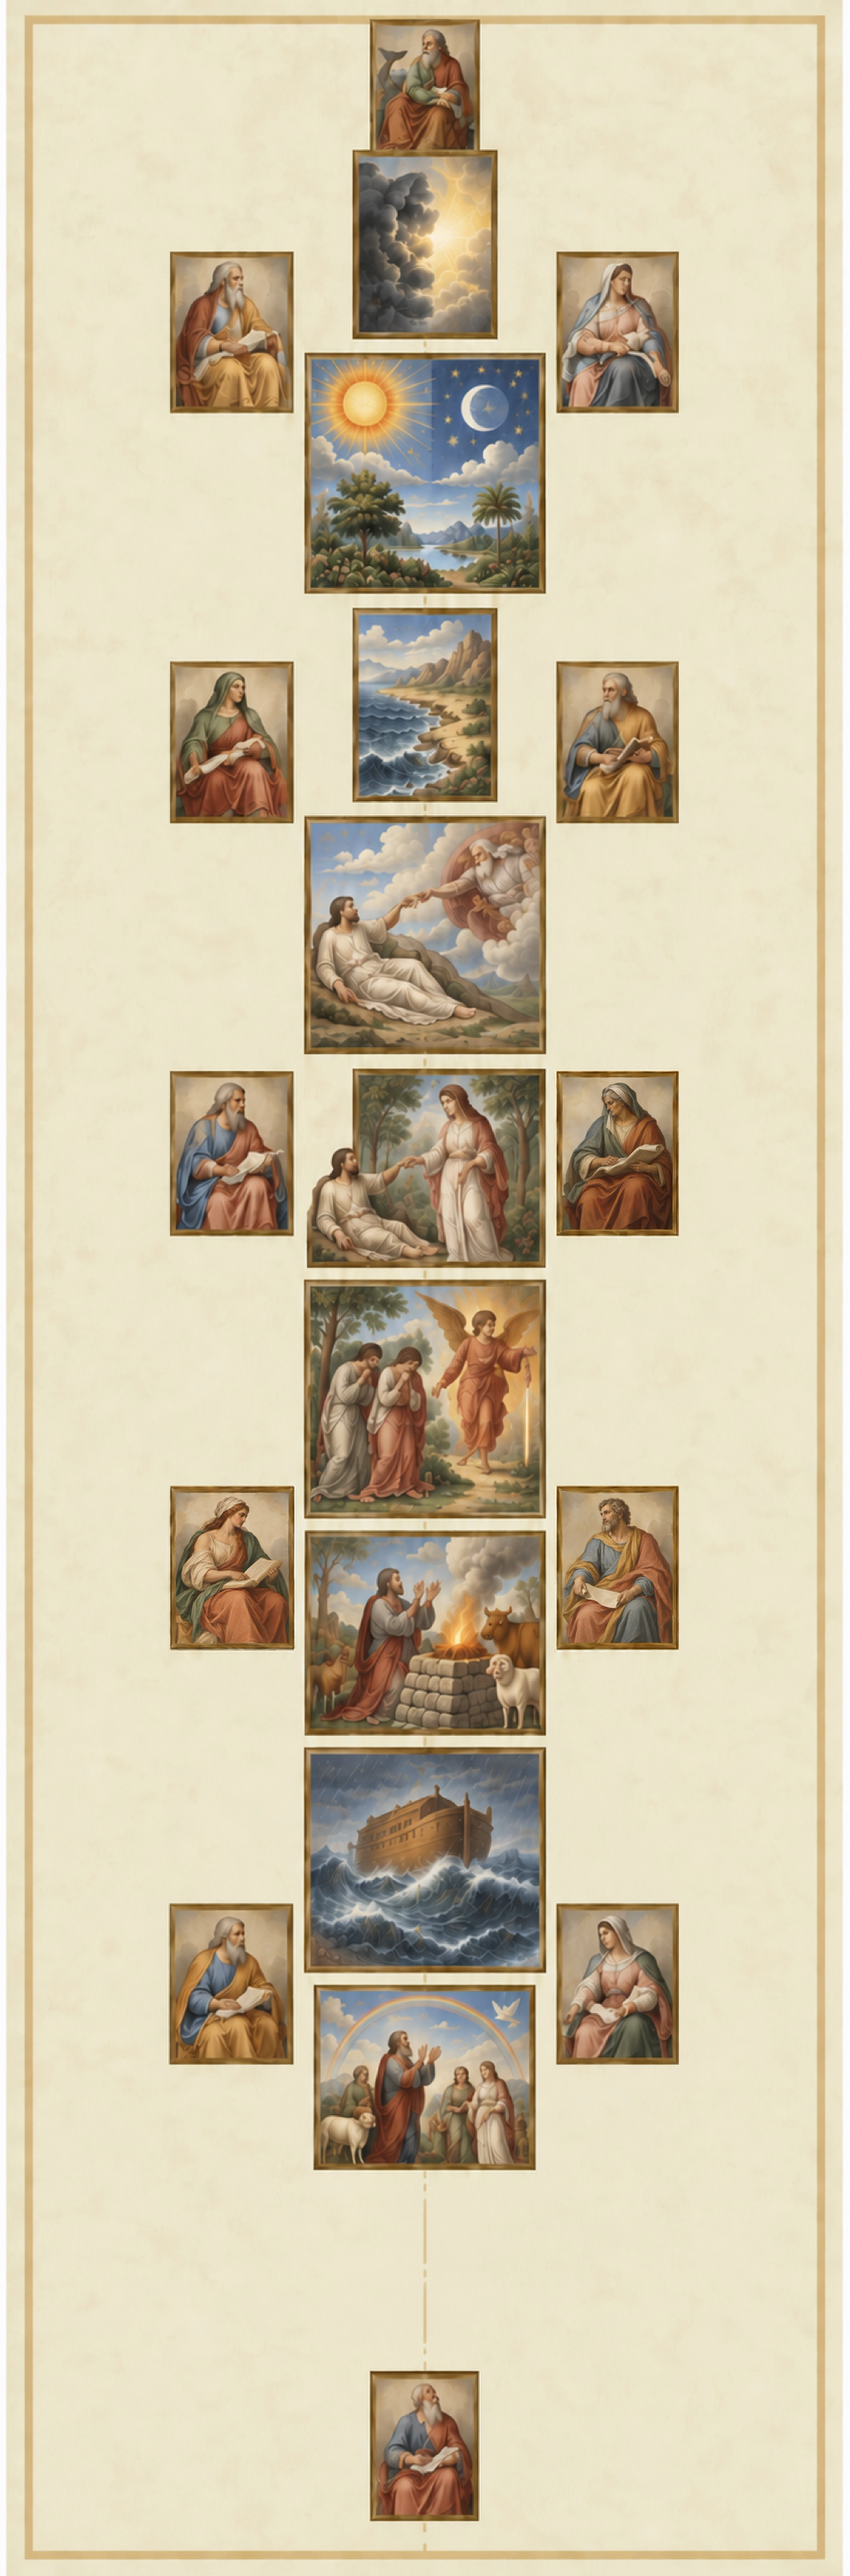
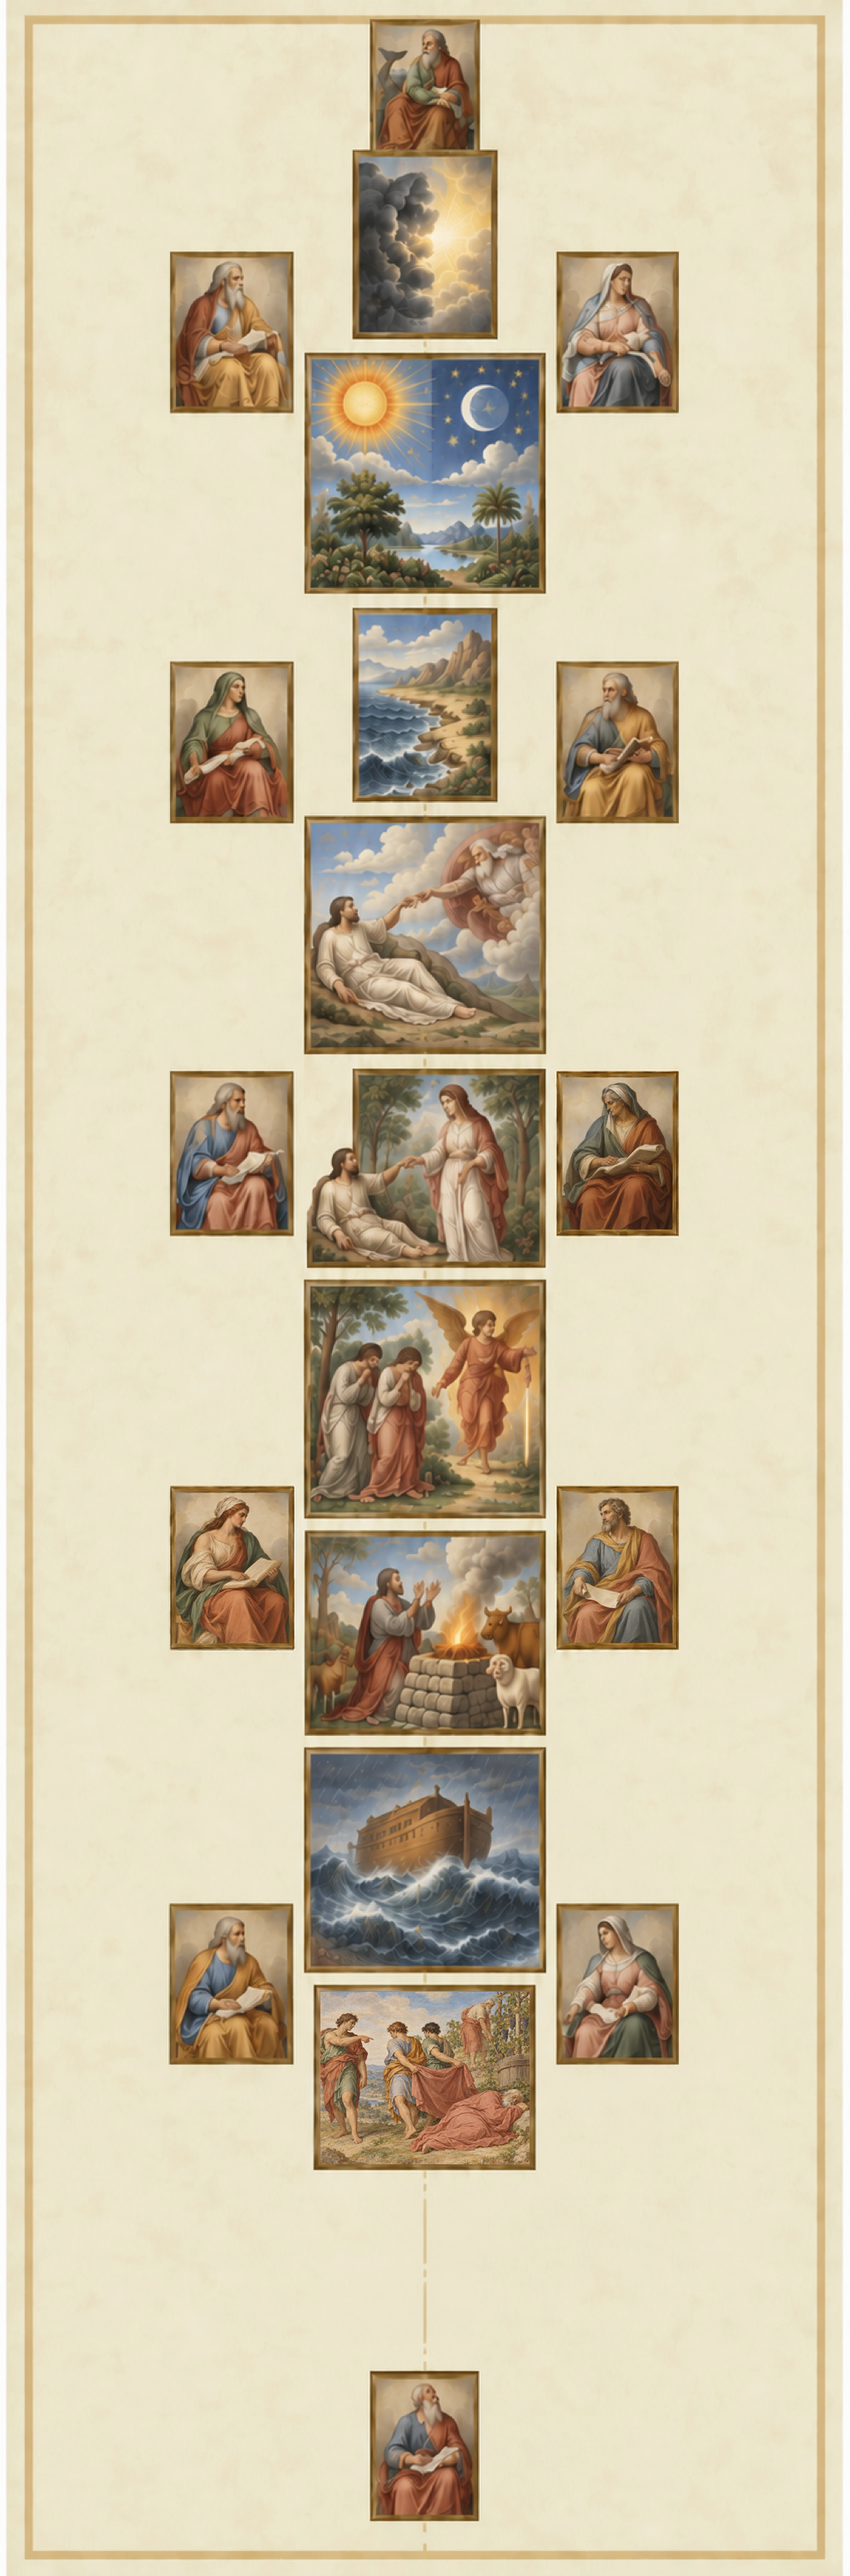
Show the Drunkenness of Noah in Sistine ceiling panel 9
Panel 9 showed Noah under a rainbow, so tapping it opened the right caption
over the wrong scene. The new panel is fitted inside the existing painted
frame; the hotspots are unchanged.

Changed region(s): [[0.375, 0.7734, 0.625, 0.8663]]

diff --git a/design-concepts/sistine-panel-09/generation-prompt.md b/design-concepts/sistine-panel-09/generation-prompt.md
@@ -1,0 +1,31 @@
+# Sistine ceiling panel 9 — Drunkenness of Noah
+
+Generated on 16 October 2026 with the built-in image_gen tool.
+
+Source panel: `content/hub/holy_see/sistine_panel_09.png`.
+Master diagram: `content/hub/holy_see/sistine_ceiling.png`.
+Bundled image: `shared/src/commonMain/composeResources/drawable/sistine_ceiling.webp`.
+
+## Final prompt
+
+A small fresco panel in the style of Michelangelo's Sistine Chapel ceiling, matching soft faded fresco colours (muted ochres, rose, sage green, pale blue) and the same painted look as the neighbouring Genesis panels. The Drunkenness of Noah, shown modestly: on the right, the elderly white-bearded Noah lies asleep on the ground beside a wooden wine vat, his body fully covered by a loose rose-coloured cloak. In the centre, two of his sons walk backwards towards him with their faces turned away, holding a cloak between them to cover their father. On the left, the third son, Ham, points towards Noah. In the background, Noah tends a grapevine with a spade. Fully clothed figures, no nudity. Painted frame-free scene filling the whole canvas. No text, no letters, no numerals, no watermark, no signature, no border.
+
+Asset type: replacement Genesis scene for Cathopedia's existing ceiling diagram. Canvas approximately 1.15:1 width to height, ideally 1150 by 1000 pixels. Use a soft classical academic sacred-painting interpretation with gently modeled, clearly readable faces, warm cream ground and aged fresco texture, calm atmospheric sky, muted terracotta and sage robes. Keep the main storytelling figures large and legible when this panel is reduced to 268 by 233 pixels. The two central sons must visibly face left, away from their father at the right, while stepping backward toward him and holding the covering cloth. Show the sleeping elder fully clothed/covered from neck to feet, not exposed. No rainbow, no ark, no animals, no decorative architecture or frame. Every person has natural, coherent anatomy.
+
+## Assembly
+
+Following the explicit paste instructions in `docs/image-prompts/pending-image-prompts.md`,
+the existing hotspot rectangle is (378, 2389), size 268 × 233, on the 1024 × 3103 master.
+That rectangle includes the painted border. To preserve it, the generated scene is fitted into
+the inner picture window at (386, 2399), size 252 × 208. Only that inner rectangle changes.
+The master is re-exported
+as RGB WebP at quality 90; hotspot coordinates and targets are unchanged.
+
+`asset-checks.json` records the exact changed bounds, dimensions and asset hashes.
+
+## Verification
+
+Android debug build and iOS simulator compilation passed. The APK contains the updated WebP;
+all rebuilt resource copies match it. Taps on panels 4, 7, 8 and 9 were checked on the Android
+emulator and opened the correct captions. `panel-09-native.png` shows the replacement scene
+in the installed app.

diff --git a/docs/image-prompts/pending-image-prompts.md b/docs/image-prompts/pending-image-prompts.md
@@ -4,15 +4,19 @@
 `shared/src/commonMain/composeResources/drawable/` (checked 16 October 2026; the cardinal portraits and
 candle holders that used to be listed here are done).
 
-## Optional: Sistine ceiling, panel 9
+## Completed: Sistine ceiling, panel 9 (16 October 2026)
 
-Panel 9 of the ceiling diagram should be the **Drunkenness of Noah**, but the generated art shows Noah under a
-rainbow. Tapping it opens the right caption over the wrong scene. The full brief is
+Panel 9 now shows the **Drunkenness of Noah**, replacing the incorrect rainbow scene.
+The generated source is `content/hub/holy_see/sistine_panel_09.png`; the master and bundled WebP
+have been updated without changing the hotspots. Generation notes and exact pixel checks are in
+`design-concepts/sistine-panel-09/`. The full brief is
 `holy-see/sistine-ceiling-image-prompts.md`.
 
-Make one image, **`sistine_panel_09.png`**, about **1.15 : 1** (for example 1150×1000). It is pasted into the
-existing frame of `content/hub/holy_see/sistine_ceiling.png` at x 0.369, y 0.770, w 0.262, h 0.075 of the
-1024×3103 canvas (268×233 px), then re-exported as `sistine_ceiling.webp`. The hotspots stay as they are.
+The source image, **`sistine_panel_09.png`**, is **1344×1170** (about **1.15 : 1**).
+The existing hotspot is x 0.369, y 0.770, w 0.262, h 0.075 of the 1024×3103 canvas
+(268×233 px at 378, 2389). Since this box includes the painted border, the scene was fitted
+inside it at **(386, 2399), size 252×208**, preserving that border. The master was then
+re-exported as `sistine_ceiling.webp` at quality 90. The hotspots are unchanged.
 
 ```
 A small fresco panel in the style of Michelangelo's Sistine Chapel ceiling, matching soft faded fresco colours

diff --git a/docs/image-prompts/holy-see/sistine-ceiling-image-prompts.md b/docs/image-prompts/holy-see/sistine-ceiling-image-prompts.md
@@ -11,12 +11,15 @@ coordinates measured from the painted frames, and the table below is the
 Sibyl as a man and Erythraean/Isaiah swapped; those three figures were
 regenerated and pasted into their existing frames.
 
-Still open (optional): panel 9 shows Noah under a rainbow, not the Drunkenness
-of Noah.
+Panel 9 was corrected on 16 October 2026: the Drunkenness of Noah now replaces the
+rainbow scene. Its source is `content/hub/holy_see/sistine_panel_09.png`, pasted into
+the existing master at (386, 2399), size 252 × 208, preserving the painted border inside
+the current hotspot rectangle (378, 2389), size 268 × 233.
 
 ## The hard constraint
 
-**The artwork must match the hotspot geometry below exactly.** Twenty-one
+**The artwork must match the current hotspot geometry in `content/hubs/holy_see.json` exactly.** The table below
+records the original request and must not be used to place patches in the shipped artwork. Twenty-one
 hotspots are already authored against normalized coordinates in
 `content/hubs/holy_see.json`; the app hit-tests taps against those numbers, not
 against the picture. If a panel in the new art sits anywhere other than its box,
